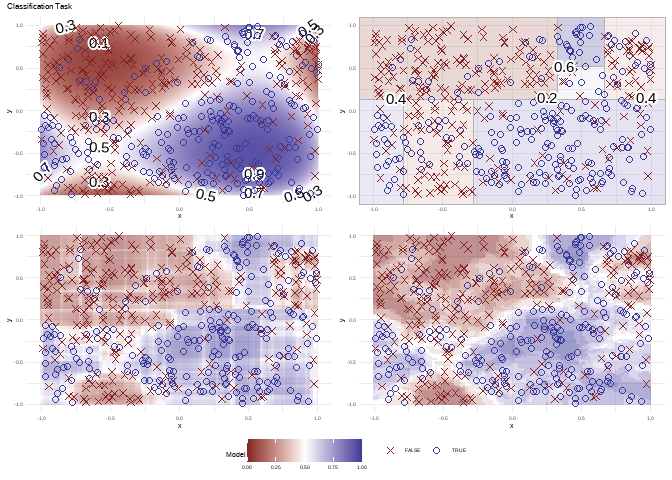
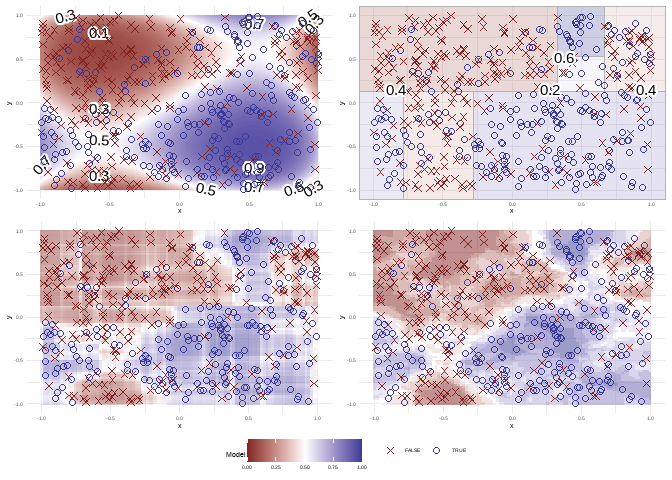
idkwid

diff --git a/README.md b/README.md
@@ -85,7 +85,6 @@ plot(fit_logistic_regression(df, order = 4)) +
 plot(fit_classification_tree(df))            +
 plot(fit_classification_random_forest(df))   +
 plot(fit_knn(df))                            +
-  plot_annotation("Classification Task") +
   plot_layout(guides = "collect")
 ```
 
@@ -117,13 +116,11 @@ You can install the development version of klassets from
 remotes::install_github("jbkunst/klassets")
 ```
 
-## Extra Ifor
+## Extra Info(?!)
 
-### Why the name Klassets?
+**Why the name Klassets?** Just a weird merge for Class/Klass and sets.
 
-Just a weird merge for Class/Klass and sets.
-
-### Inspiration/Similar Ideas
+Some inspiration and similar ideas:
 
 -   <https://jumpingrivers.github.io/datasauRus/>
 -   <https://eliocamp.github.io/metamer/>
